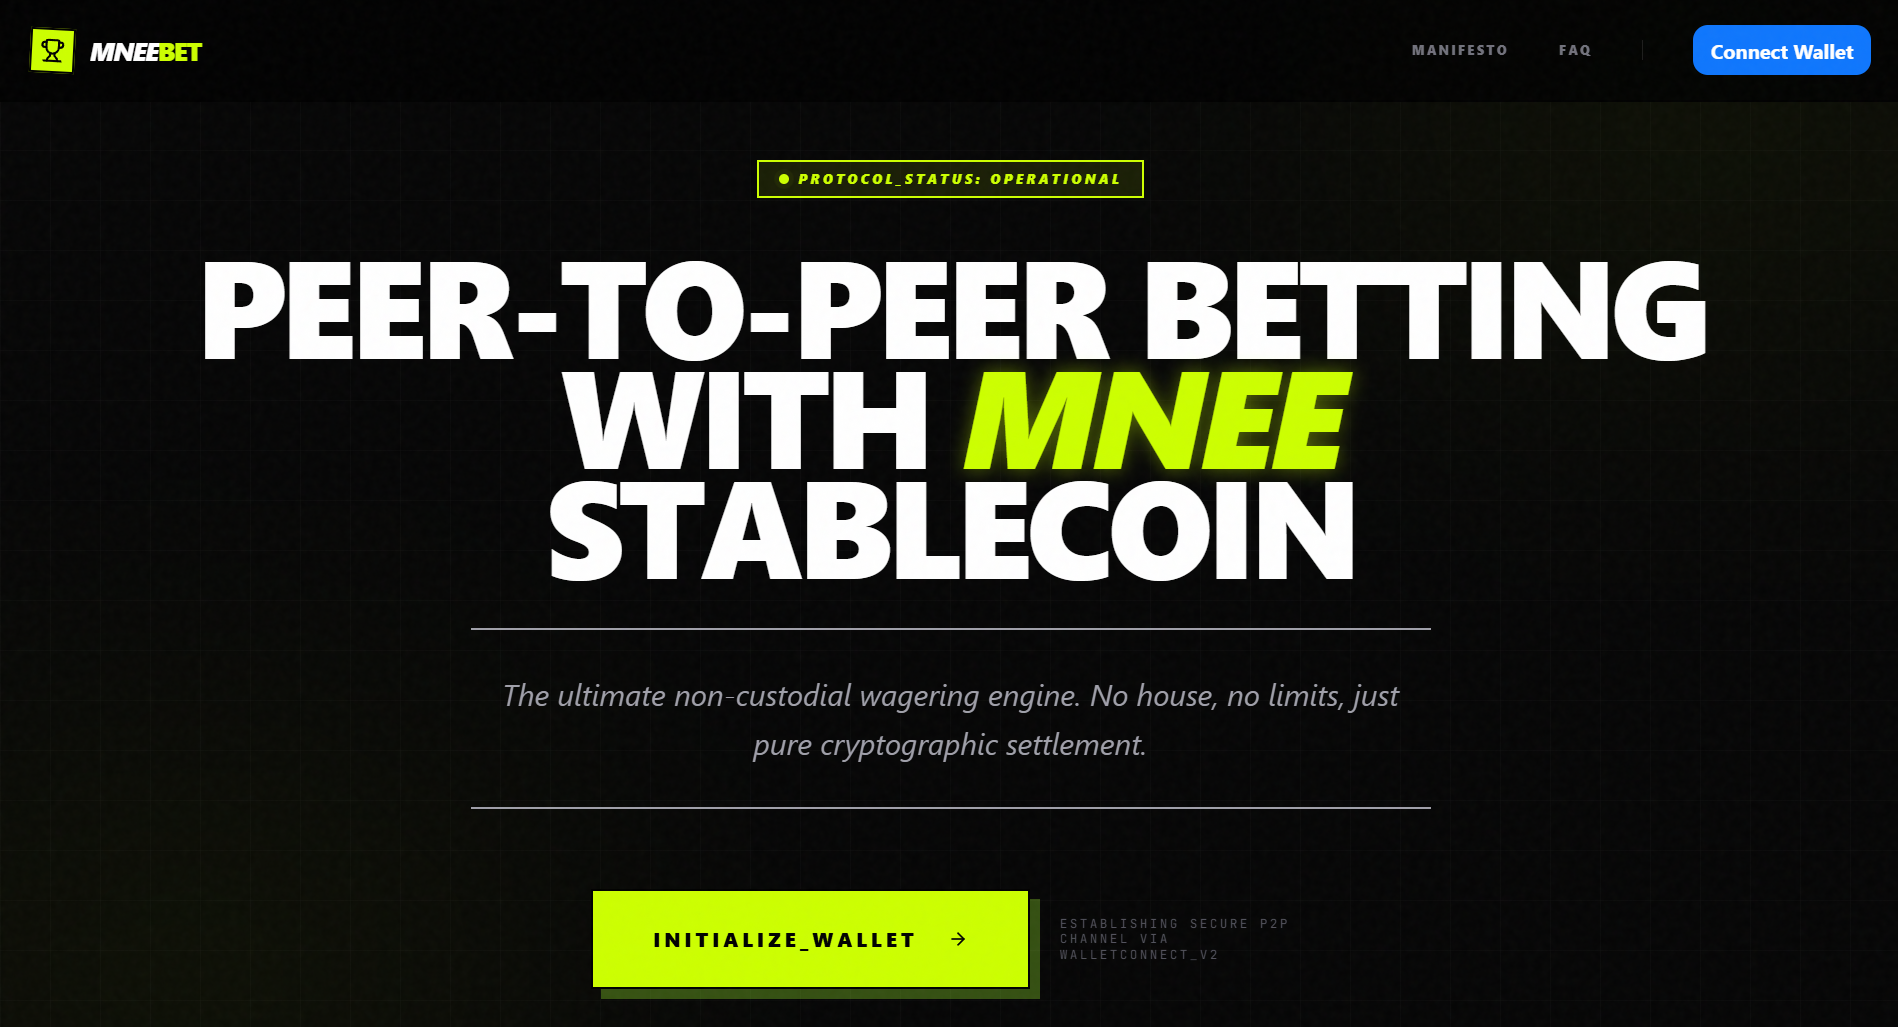
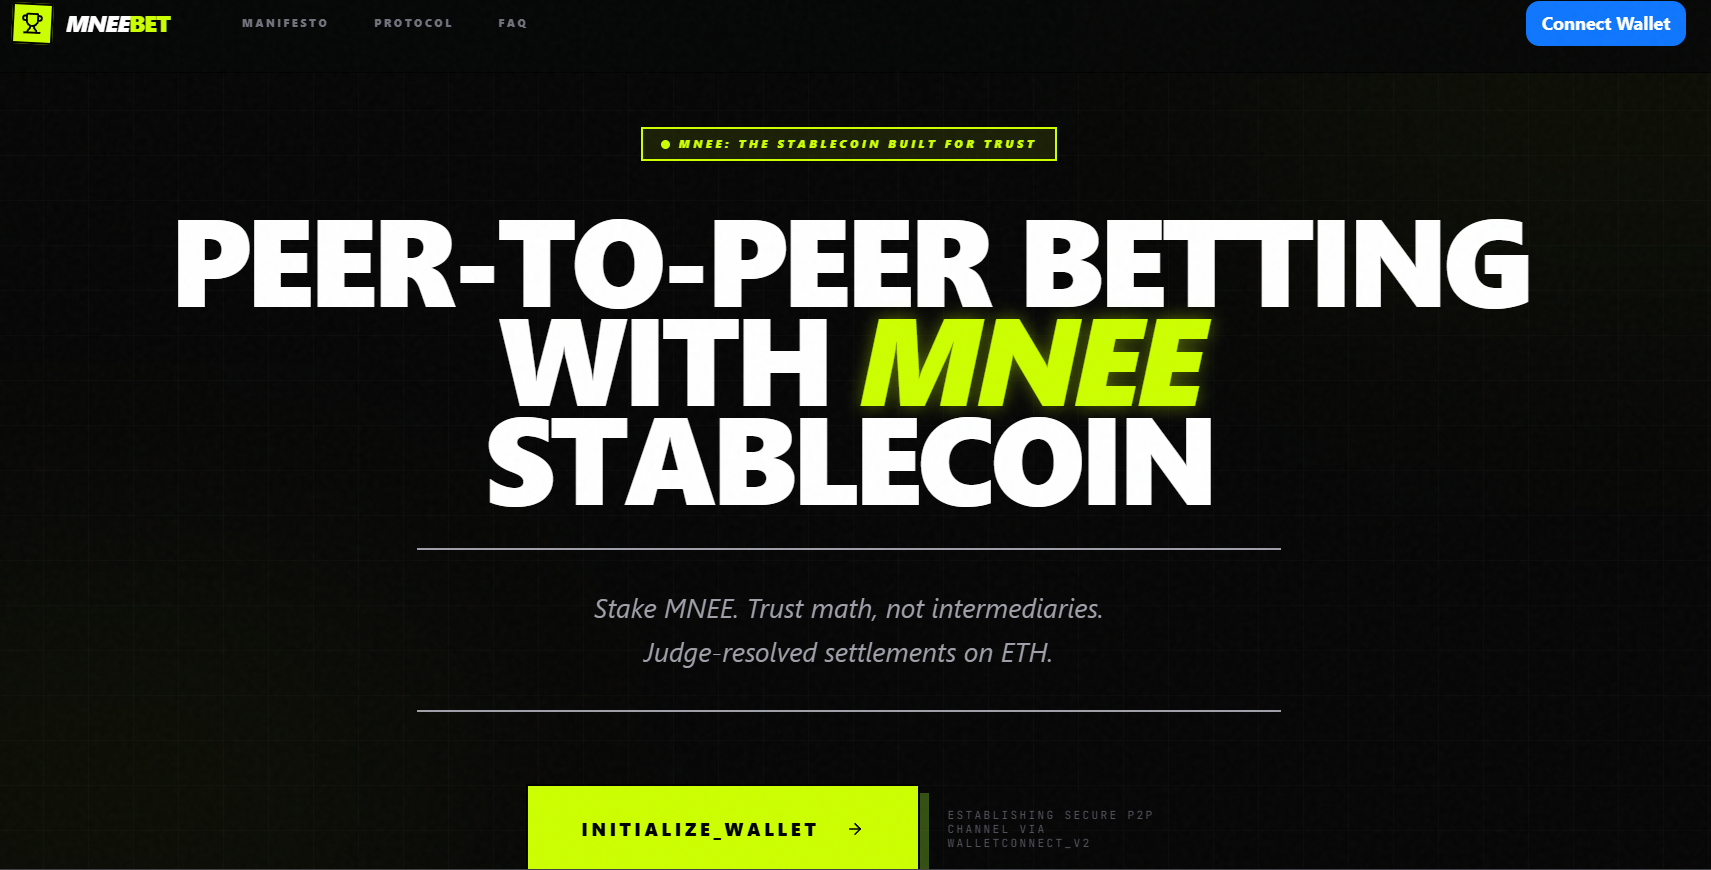
add update photo and readme

diff --git a/README.md b/README.md
@@ -1,5 +1,17 @@
 # MNEEBet - Peer-to-Peer Betting Platform with MNEE Stablecoin
 
+<div align="center">
+
+![License](https://img.shields.io/badge/license-MIT-green)
+![Network](https://img.shields.io/badge/network-Sepolia-blue)
+![Token](https://img.shields.io/badge/token-MNEE-yellow)
+![Status](https://img.shields.io/badge/status-Live-success)
+![Build](https://img.shields.io/badge/build-passing-brightgreen)
+
+<img src="./public/mneebet.png" alt="MNEEBet Platform Preview" width="100%" style="border-radius: 10px; border: 1px solid #333;" />
+
+</div>
+
 ## 🎯 Project Overview
 
 MNEEBet is a decentralized peer-to-peer betting platform that uses **MNEE USD stablecoin** as the escrow currency. 
